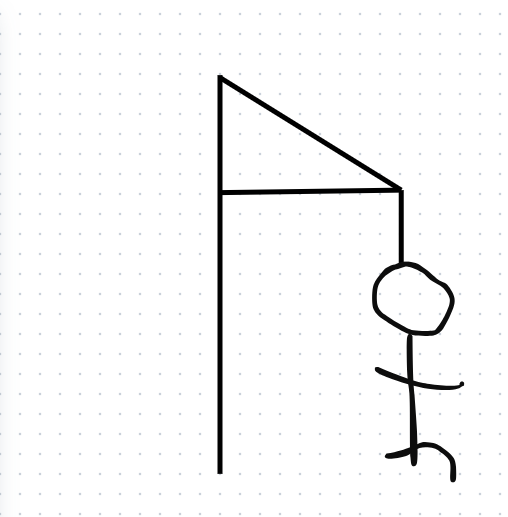
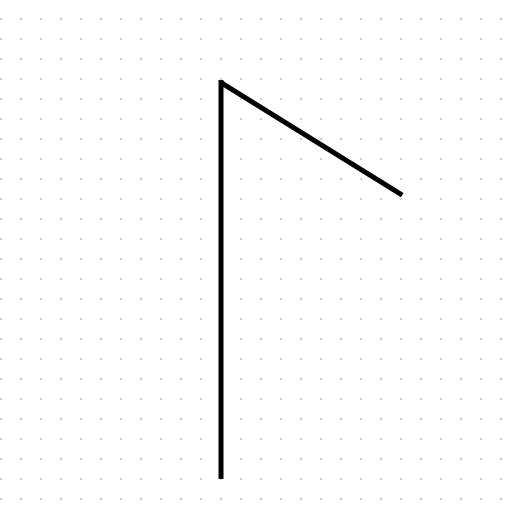
fase final

Changed region(s): [[0.4134, 0.1248, 0.9154, 0.9357]]

diff --git a/js/juego-popup.js b/js/juego-popup.js
@@ -1,11 +1,22 @@
 window.onload = () => {
+    const vidasRestantesElem = document.getElementById("vidas-restantes");
+    const imagenVidas = document.getElementById("imagen-vidas");
+
+    // Llamada inicial para mostrar la imagen de 5 vidas
+    actualizarImagenVidas(5);
+
     window.addEventListener("message", (event) => {
-        // Asegúrate de que el mensaje sea sobre las vidas
         if (event.data && typeof event.data.vidas !== "undefined") {
             const vidasRestantes = event.data.vidas;
-            document.getElementById("vidas-restantes").textContent = `Vidas restantes: ${vidasRestantes}`;
+            vidasRestantesElem.textContent = `Vidas restantes: ${vidasRestantes}`;
+
+            actualizarImagenVidas(vidasRestantes);
         }
     });
-    
-    
+};
+
+function actualizarImagenVidas(vidas) {
+    const imagenPath = `img/perdida${vidas}.png`; 
+    const imagenVidas = document.getElementById("imagen-vidas");
+    imagenVidas.src = imagenPath;
 }

diff --git a/juego-popup.html b/juego-popup.html
@@ -4,11 +4,19 @@
     <meta charset="UTF-8">
     <meta name="viewport" content="width=device-width, initial-scale=1.0">
     <title>Colgado</title>
-    <script src="js/juego-popup.js"></script>
     <link rel="stylesheet" href="css/estilo1.css">
+    <style>
+        .vida-imagen {
+            width: 200px;
+            height: auto;
+        }
+    </style>
 </head>
 <body>
-    <img class="img-popup" src="img/ahorcado.webp" alt="" class="display">
-    <p id="vidas-restantes">Vidas restantes: 5</p>
+    <h1>Vidas Restantes: <span id="vidas-restantes">5</span></h1>
+    <img id="imagen-vidas" class="vida-imagen" src="img/perdida1.png" alt="Estado de vidas">
+    <script src="./js/juego-popup.js"></script>
+
 </body>
 </html>
+
